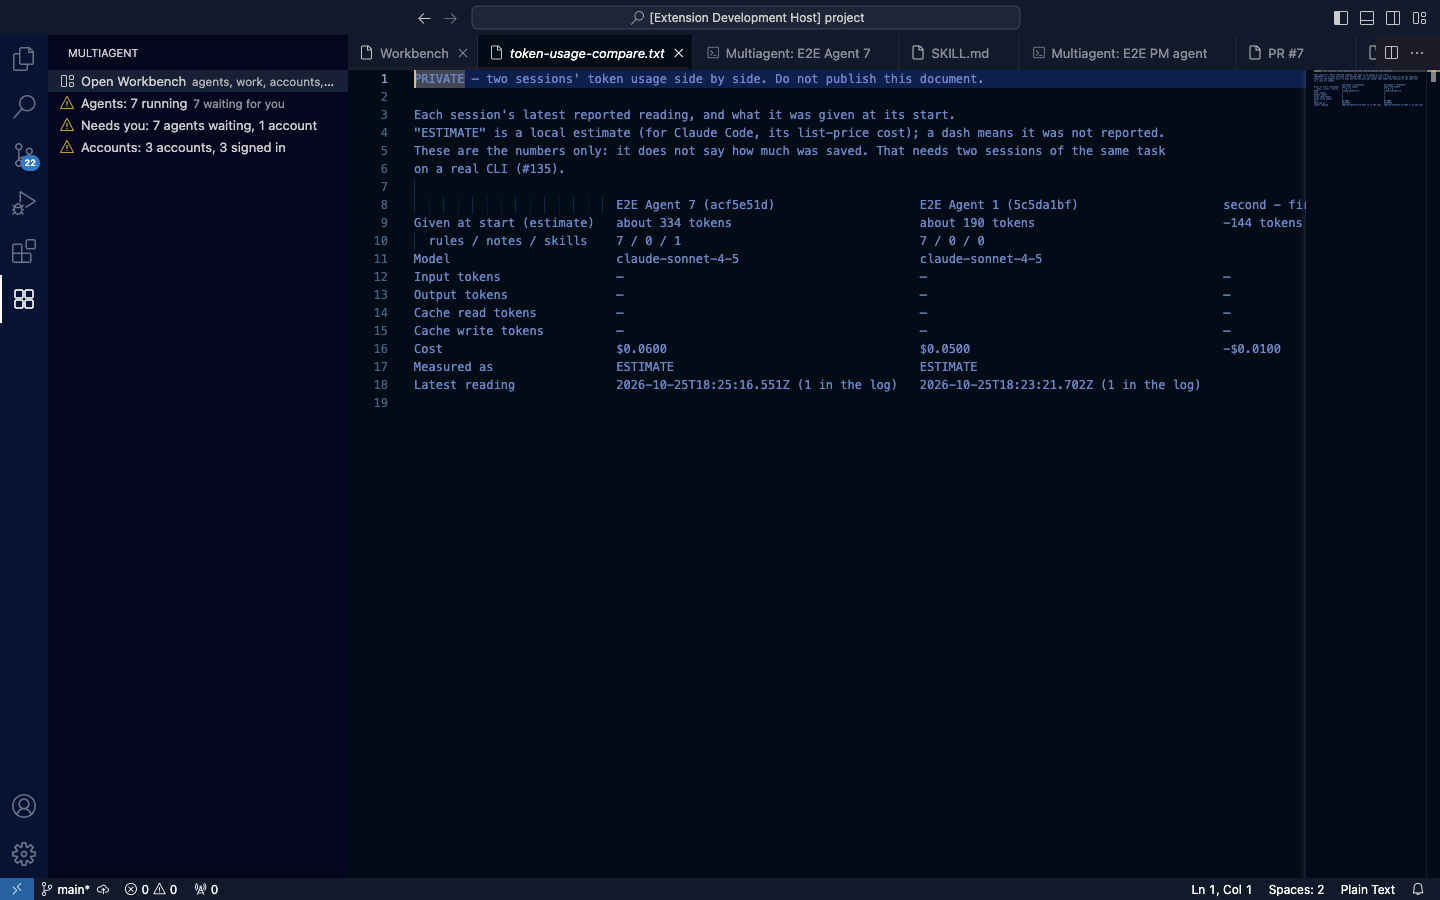
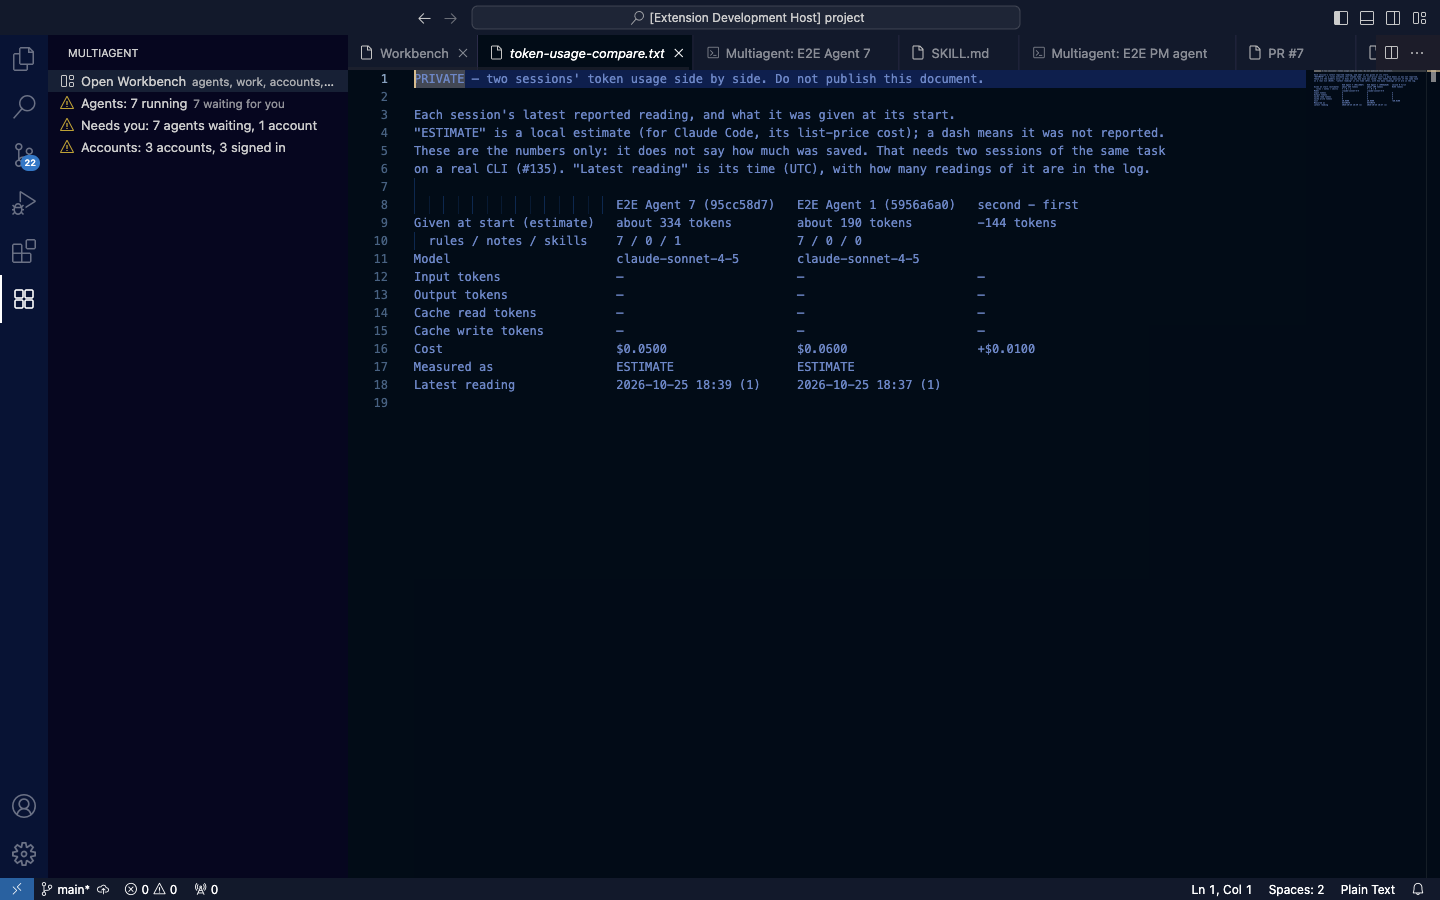
test(e2e): item 10 accepted by the PM; the comparison's three columns fit a 1440-wide window (Refs #359, #360)

diff --git a/src/accounts/usage-log.js b/src/accounts/usage-log.js
@@ -287,7 +287,7 @@ function compareSessions(entries, firstId, secondId, { nameOf = (id) => `session
     ['Cache write tokens', cells(a.latest.cacheWriteTokens?.toLocaleString('en-US')), cells(b.latest.cacheWriteTokens?.toLocaleString('en-US')), signed(a.latest.cacheWriteTokens, b.latest.cacheWriteTokens, tokens)],
     ['Cost', a.latest.costUsd === null ? '—' : usd(a.latest.costUsd), b.latest.costUsd === null ? '—' : usd(b.latest.costUsd), signed(a.latest.costUsd, b.latest.costUsd, usd)],
     ['Measured as', mark(a.latest), mark(b.latest), ''],
-    ['Latest reading', `${a.latest.at} (${a.readings} in the log)`, `${b.latest.at} (${b.readings} in the log)`, '']
+    ['Latest reading', `${a.latest.at.slice(0, 16).replace('T', ' ')} (${a.readings})`, `${b.latest.at.slice(0, 16).replace('T', ' ')} (${b.readings})`, '']
   ];
   const widths = [0, 1, 2].map((column) => Math.max(...rows.map((row) => Array.from(row[column]).length)));
   const pad = (text, width) => text + ' '.repeat(Math.max(0, width - Array.from(text).length));
@@ -297,7 +297,7 @@ function compareSessions(entries, firstId, secondId, { nameOf = (id) => `session
     'Each session\'s latest reported reading, and what it was given at its start.',
     '"ESTIMATE" is a local estimate (for Claude Code, its list-price cost); a dash means it was not reported.',
     'These are the numbers only: it does not say how much was saved. That needs two sessions of the same task',
-    'on a real CLI (#135).',
+    'on a real CLI (#135). "Latest reading" is its time (UTC), with how many readings of it are in the log.',
     '',
     ...rows.map((row) => `${pad(row[0], widths[0])}   ${pad(row[1], widths[1])}   ${pad(row[2], widths[2])}   ${row[3]}`.trimEnd())
   ];

diff --git a/test/accounts/usage-log.test.js b/test/accounts/usage-log.test.js
@@ -277,7 +277,7 @@ test('two sessions are compared side by side: what each was given and its latest
   const same = compareSessions([entry({ sessionId: 'x1', costUsd: 0.03 }), entry({ sessionId: 'x2', costUsd: 0.03 })], 'x1', 'x2');
   assert.match(same.find((line) => line.startsWith('Cost')), /\$0\.0300\s+\$0\.0300\s+same$/, 'an equal figure is "same", not a signed zero');
   assert.ok(compareSessions(entries, 's-with', 's-without').slice(0, 6).every((line) => line.length <= 110), 'the explanation fits an editor');
-  assert.match(row('Latest reading'), /\(2 in the log\).*\(1 in the log\)/);
+  assert.match(row('Latest reading'), /2026-10-26 01:00 \(2\)\s+2026-10-26 02:00 \(1\)/);
   assert.equal(/saved \d|savings|% less/i.test(text), false, 'no claim of savings');
   const withOld = compareSessions(entries, 's-with', 's-old', { nameOf: (id) => names[id] });
   assert.match(withOld.find((line) => line.startsWith('Given at start')), /about 334 tokens\s+unknown\s+—$/, 'what an older session was given is unknown, not zero');

diff --git a/test/e2e/report.test.js b/test/e2e/report.test.js
@@ -53,7 +53,7 @@ test('an item is either accepted with nothing pending, or not done with what is 
     else assert.match(item.pending ?? '', /#\d+/, `${item.id} says which issue finishes it`);
   }
   // #357: the side bar keeps one entry, and one screen shows every agent with its codename, account and mode.
-  assert.deepEqual(ITEMS.filter((item) => item.acceptance === 'accepted').map((item) => item.id), ['00', '01', '11', '02', '03', '08', '04']);
+  assert.deepEqual(ITEMS.filter((item) => item.acceptance === 'accepted').map((item) => item.id), ['00', '01', '11', '02', '03', '08', '04', '10']);
   // #383: item 04 (after 08, which sets who publishes) sees which decisions are on and why, starts a PM agent and asks it about the
   // PM's review (one line of numbers reaches its terminal), approves the pull request and closes the Issue.
   assert.deepEqual(ITEMS.find((item) => item.id === '04').steps.map((step) => step.name), ['see-decisions', 'start-pm-agent', 'discuss-with-pm', 'approve-pr', 'close-issue']);

diff --git a/test/e2e/steps.js b/test/e2e/steps.js
@@ -932,8 +932,8 @@ const ITEMS = [
     id: '10',
     title: 'Skills and shared memory that save tokens',
     issue: '#359',
-    acceptance: 'not-done',
-    pending: 'Proven here: the library, an agent given only the list of its role group\'s skills (their files in its own session folder, readable through --add-dir) with how much it was given shown on its card, and two sessions compared side by side in the usage log (what each was given, its reported cost). Not proven: that a real CLI reads a skill when it needs one, and how many tokens that saves on the same task (#135).',
+    acceptance: 'accepted',
+    // Accepted by the PM (2026-10-26). What a real CLI does with a skill, and the tokens saved on one task, are #135's real-machine items.
     steps: [
       {
         name: 'add-starter-skills',
